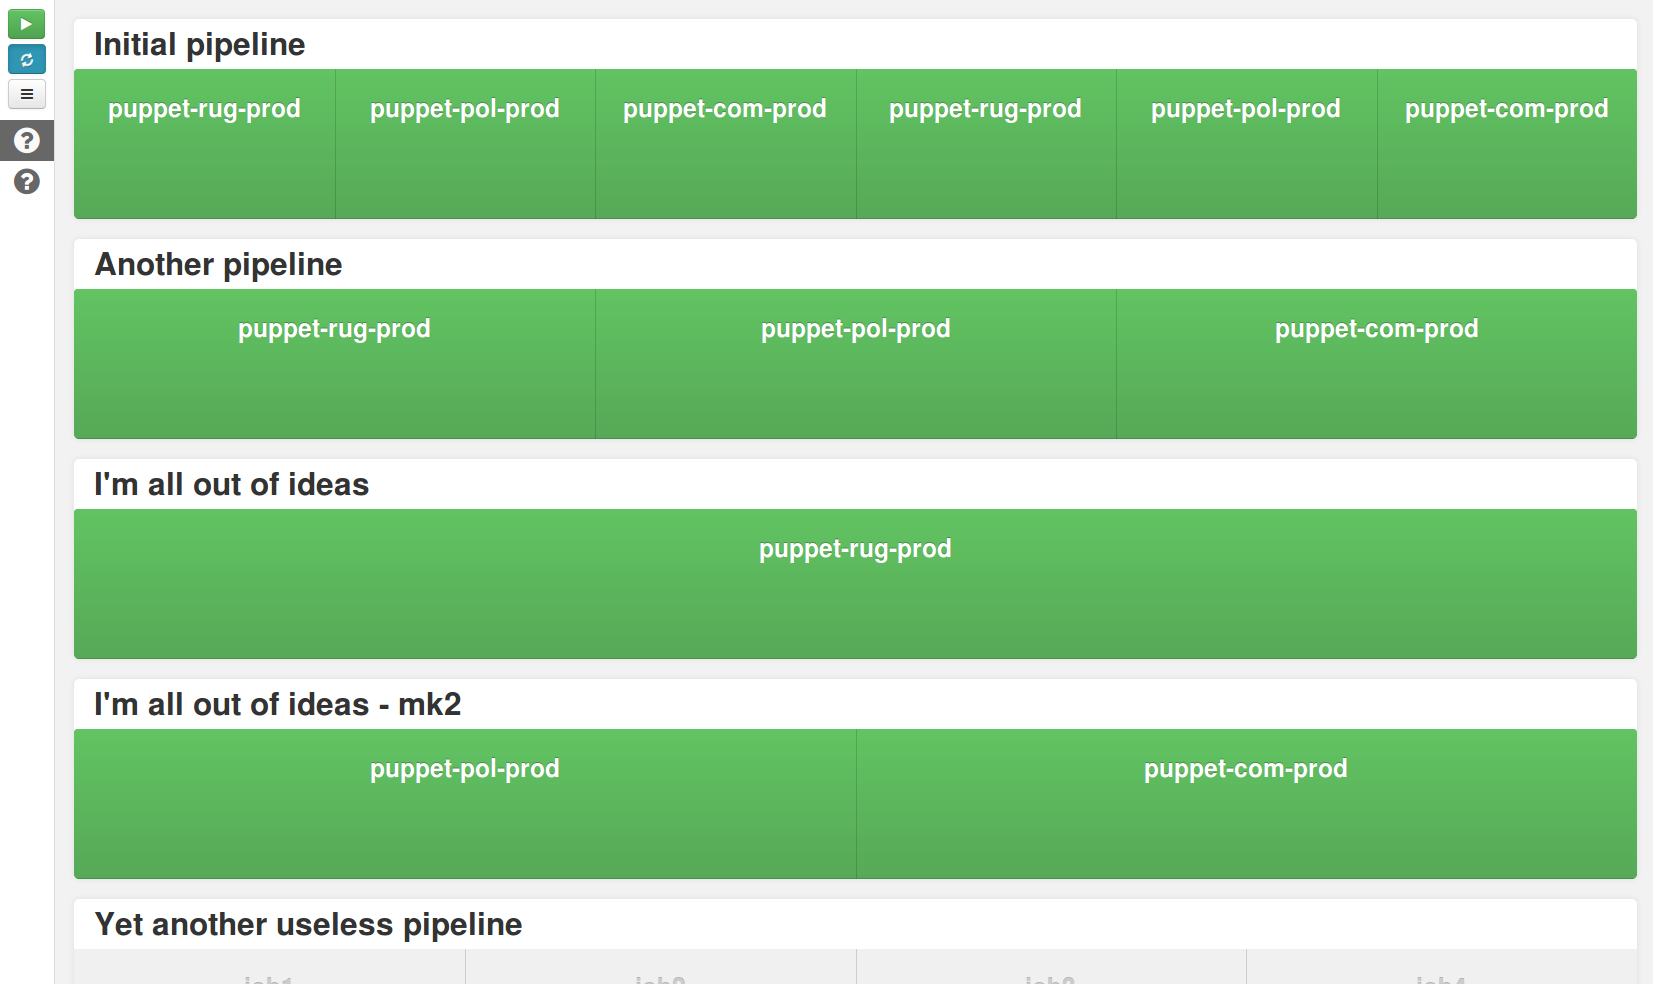
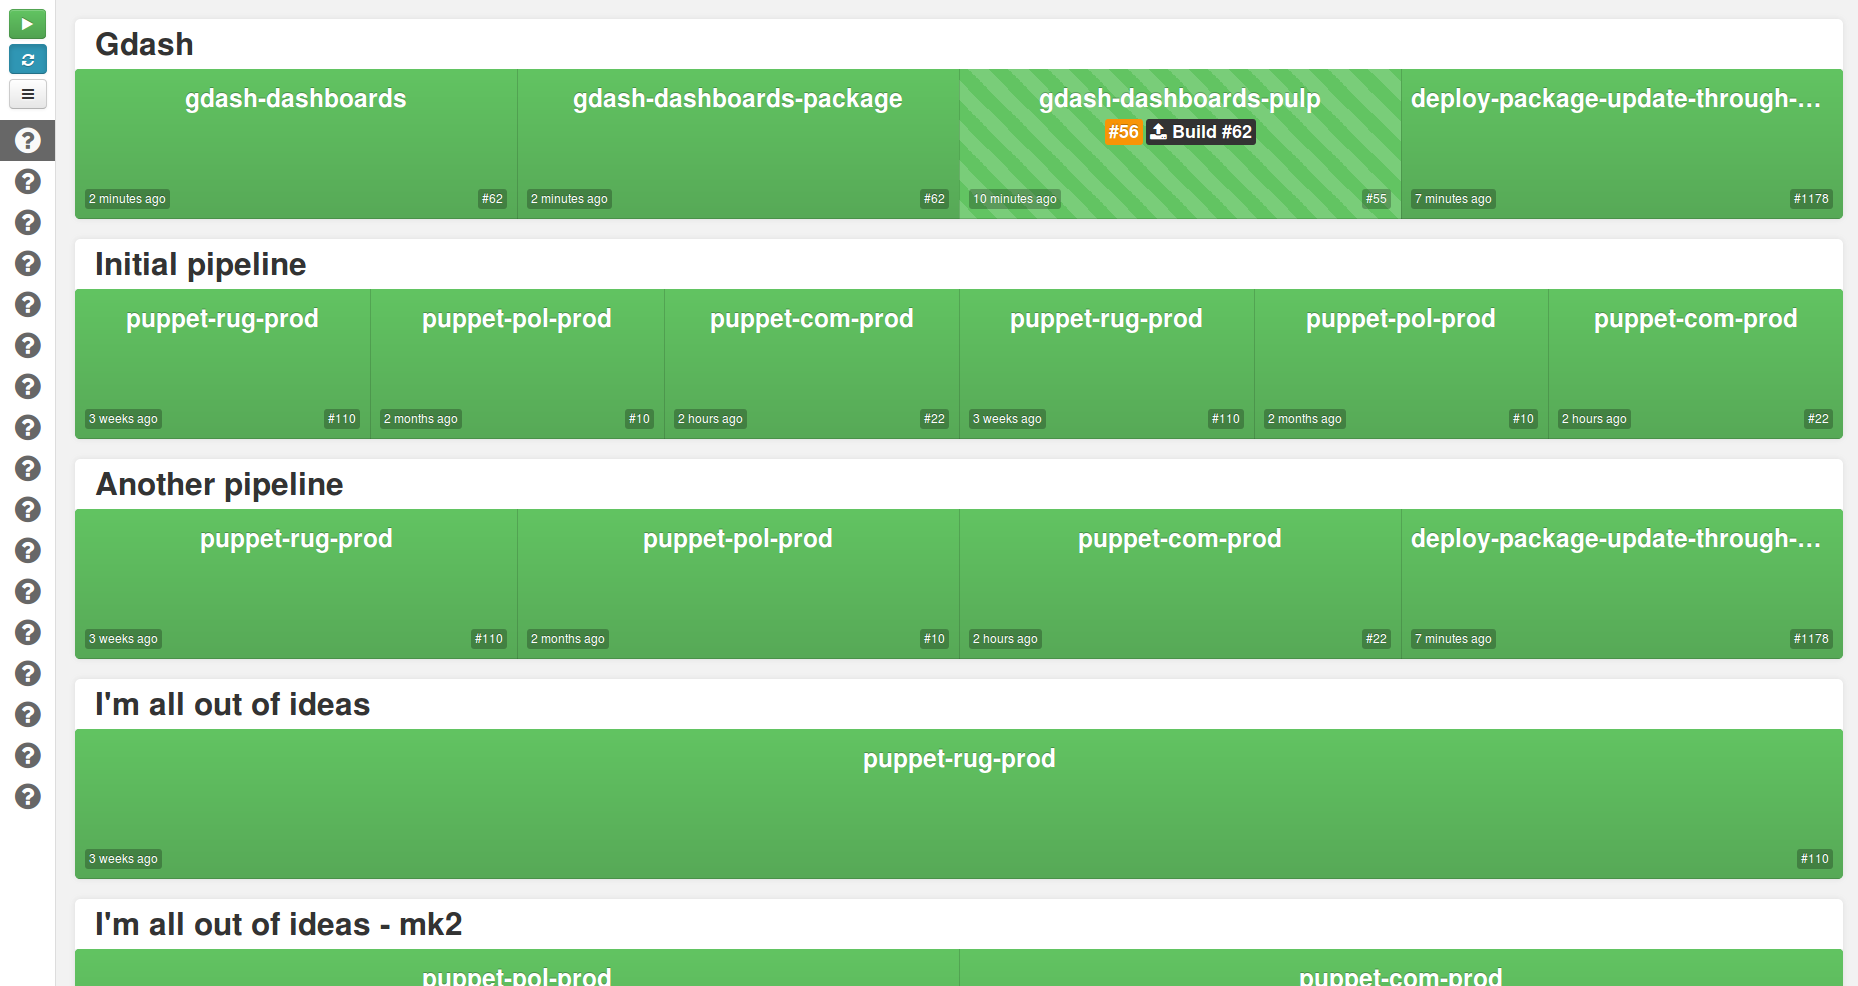
Add support for build triggers, allowing you to re-use the same job and differentiate them based on the job that triggers them. For more information, see Show information about the currently running build, such as cause/instigator and build number Display information about the last successful build,

diff --git a/web/js/main.js b/web/js/main.js
@@ -209,19 +209,21 @@
             			 */
             			$('.job').each(function() {
             				var $this = $(this);
-            				var title = $this.attr('title');
-            				// Only do stuff if there's a title
-            				if(typeof title != 'undefined' && title.length > 0) {
+            				var job = $this.data('job');
+                            var trigger = $this.data('trigger');
+
+            				// Only do stuff if there's a job to do stuff for
+            				if(typeof job != 'undefined' && job.length > 0) {
             					// First, remove all classes that indicate statuses
             					$this.removeClass('animated').removeClass('success').removeClass('error').removeClass('disabled');
-            					
+            					// Set default container to disabled, to be overriden if we can match the job
     							var container = 'disabled';
     							var building = false;
             					
             					// Loop through our received data, and look for an object with a name that matches our title
             					var matched = false;
             					$.each(data, function(key, val) {
-            						if(val.name == title) {
+            						if(val.name == job) {
             							matched = true;
             							
             							building = val.color.indexOf('_anime') != -1;
@@ -248,11 +250,62 @@
             								container = 'neutral';
             								break;
             							}
+
+                                        // Figure out the cause of this build
+                                        var cause = null;
+                                        for(var i = 0; i < val.lastBuild.actions.length; i++) {
+                                            if (val.lastBuild.actions[i].causes) {
+                                                cause = val.lastBuild.actions[i].causes[0];
+                                                break;
+                                            }
+                                        }
+
+                                        // If this job is running, has a trigger and the last(current) build was triggered by another job,
+                                        // then we're only really building if the current build cause is a job that matches data-trigger
+                                        if (building && typeof trigger != 'undefined' && trigger.length > 0) {
+                                            if (cause.upstreamProject && cause.upstreamProject != trigger) {
+                                                building = false;
+                                            }
+                                        }
             							
             							// If we're building, do some magic
             							if(building) {
             								$this.addClass('animated');
             							}
+
+                                        // Display info about the last completed build
+                                        if (val.lastCompletedBuild) {
+                                            // Display the last build number
+                                            $this.find('.job-lastbuild-number').html('#' + val.lastCompletedBuild.number);
+
+                                            // Display the last build time
+                                            $this.find('.job-lastbuild-time').html(BJSInstance.parse(val.lastCompletedBuild.timestamp / 1000));
+                                        }
+
+                                        // Display or hide info about a currently running build
+                                        if (building && val.lastBuild && val.lastBuild.building) {
+                                            // Display some basic info
+                                            $this.find('.job-currentbuild-meta').html('#' + val.lastBuild.number);
+
+                                            // The HTML we'll use to display the cause
+                                            var cause_html = '';
+
+                                            // Figure out the type of the cause (user, SCM or upstream build)
+                                            if (cause.upstreamBuild) {
+                                                cause_html = '<i class="icon-upload-alt"></i> Build #' + cause.upstreamBuild;
+                                            } else if (cause.userName) {
+                                                cause_html = '<i class="icon-user"></i> ' + cause.userName;
+                                            } else {
+                                                cause_html = '<i class="icon-code-fork"></i> SCM/misc';
+                                            }
+
+                                            $this.find('.job-currentbuild-cause').html(cause_html);
+
+                                            $this.find('.job-currentbuild-info').fadeIn();
+
+                                        } else {
+                                            $this.find('.job-currentbuild-info').fadeOut();
+                                        }
             						}
             					});
             					// If no matches were found within our data, this must mean something's broken or configured incorrectly.
@@ -370,6 +423,9 @@
             		switchToGroup($('.group').first().data('group-id'));
             	}
             }
+
+            // Init Beyond.JS
+            BJSInstance = new BeyondJS();
 
             // Init tooltips
             initTooltips();

diff --git a/web/css/layout.css b/web/css/layout.css
@@ -73,7 +73,7 @@ a {
 	top: 0;
 	left: 0;
 	right: 0;
-  padding: 20px;
+  padding: 20px 20px 0;
 }
 
 /** -- CONTENT GROUPS */
@@ -100,14 +100,41 @@ a {
 .jobs {
 	height: 150px;
 }
-.job {
+.job.bar {
 	overflow: hidden;
+  /*text-align: left;*/
+  padding: 10px;
+  position: relative;
 }
-.job.animated {
-	background-repeat: repeat!important;
+.job-name,
+.job-currentbuild-info {
+  margin: 0;
 }
-.job-header {
-	margin: 20px;
+.job-lastbuild-info {
+  position: absolute;
+  bottom: 10px;
+  right: 10px;
+  left: 10px;
+}
+.job-lastbuild-time {
+  float: left;
+}
+.job-lastbuild-number {
+  float: right;
+}
+.job-currentbuild-info {
+  display: none;
+}
+.job-currentbuild-info > span {
+  font-size: 1.5em;
+  line-height: 1.2em;
+}
+
+.tag {
+  display: inline-block;
+  background-color: rgba(0,0,0,0.25);
+  padding: 0 4px;
+  border-radius: 3px;
 }
 
 /* ANIMATED ITEM JOBS */
@@ -128,6 +155,8 @@ a {
 	  -moz-background-size: 40px 40px;
 	  -o-background-size: 40px 40px;
 	  background-size: 40px 40px;
+
+    background-repeat: repeat!important;
 }
 .job.animated.bar-danger {
   background-color: #ee5f5b;
@@ -196,89 +225,29 @@ a {
     margin-left: 55px;
 }
 
-/** TEXT EFFECTS (?) */
 
-.blink {
-    -webkit-animation: blink 2s linear infinite;
-    -moz-animation: blink 2s linear infinite;
-    -ms-animation: blink 2s linear infinite;
-    -o-animation: blink 2s linear infinite;
-    animation: blink 2s linear infinite;
+/** TEXT TRUNCATION */
+.item-header,
+.job-name {
+  white-space: nowrap;
+  overflow: hidden;
+  text-overflow: ellipsis;
 }
 
-@-webkit-keyframes blink {
-    0% { opacity: 1; }
-    10% { opacity: 0.8; }
-    20% { opacity: 0.6; }
-    30% { opacity: 0.4; }
-    40% { opacity: 0.2; }
-    50% { opacity: 0; }
-    60% { opacity: 0.2; }
-    70% { opacity: 0.4; }
-    80% { opacity: 0.6; }
-    90% { opacity: 0.8; }
-    100% { opacity: 1; }
-}
-
-@-moz-keyframes blink {
-    0% { opacity: 1; }
-    10% { opacity: 0.8; }
-    20% { opacity: 0.6; }
-    30% { opacity: 0.4; }
-    40% { opacity: 0.2; }
-    50% { opacity: 0; }
-    60% { opacity: 0.2; }
-    70% { opacity: 0.4; }
-    80% { opacity: 0.6; }
-    90% { opacity: 0.8; }
-    100% { opacity: 1; }
-}
-
-@-ms-keyframes blink {
-    0% { opacity: 1; }
-    10% { opacity: 0.8; }
-    20% { opacity: 0.6; }
-    30% { opacity: 0.4; }
-    40% { opacity: 0.2; }
-    50% { opacity: 0; }
-    60% { opacity: 0.2; }
-    70% { opacity: 0.4; }
-    80% { opacity: 0.6; }
-    90% { opacity: 0.8; }
-    100% { opacity: 1; }
-}
-
-@-o-keyframes blink {
-    0% { opacity: 1; }
-    10% { opacity: 0.8; }
-    20% { opacity: 0.6; }
-    30% { opacity: 0.4; }
-    40% { opacity: 0.2; }
-    50% { opacity: 0; }
-    60% { opacity: 0.2; }
-    70% { opacity: 0.4; }
-    80% { opacity: 0.6; }
-    90% { opacity: 0.8; }
-    100% { opacity: 1; }
-}
-
-@keyframes blink {
-    0% { opacity: 1; }
-    10% { opacity: 0.8; }
-    20% { opacity: 0.6; }
-    30% { opacity: 0.4; }
-    40% { opacity: 0.2; }
-    50% { opacity: 0; }
-    60% { opacity: 0.2; }
-    70% { opacity: 0.4; }
-    80% { opacity: 0.6; }
-    90% { opacity: 0.8; }
-    100% { opacity: 1; }
-}
-
-/** RESPONSIVE LAYOUTS */
+/** RESPONSIVE LAYOUT */
 @media (max-width: 979px) {
-   /** --SIDEBAR SHRINKING  & CONTENT EXPANDING */
+  /* Remove body padding on small screens */
+  body {
+    padding: 0;
+  }
+
+  /* Hide last build and current build info */
+  .job-lastbuild-info,
+  .job-currentbuild-info {
+    display: none;
+  }
+
+  /** --SIDEBAR SHRINKING  & CONTENT EXPANDING */
 	.sidebar {
 	    width: 55px;
 	    max-width: 55px;

diff --git a/web/assets/beyond.js/js/beyond.min.js b/web/assets/beyond.js/js/beyond.min.js
@@ -1,0 +1,3 @@
+var BeyondJS=function(f){this.cfg={future:!1,now:null,locale:{s:"second",S:"seconds",m:"minute",M:"minutes",h:"hour",H:"hours",d:"day",D:"days",w:"week",W:"weeks",mo:"month",MO:"months",y:"year",Y:"years","default":"just now",past:"ago",future:"from now"}};(function(d,a){if(a)for(arg in a)d.cfg[arg]=a[arg];d.parse=function(e){return g(d,e)};d.parseUnix=function(e){var b=d.cfg.now||Math.round((new Date).getTime()/1E3);e-=b;if(0<e&&!d.cfg.future)e=null;else{var b=Math.abs(e),c=0,a="";31536E3<=b?(c=
+Math.floor(b/31536E3),a=1<c?"Y":"y"):2678400<=b?(c=Math.floor(b/2678400),a=1<c?"MO":"mo"):604800<=b?(c=Math.floor(b/604800),a=1<c?"W":"w"):86400<=b?(c=Math.floor(b/86400),a=1<c?"D":"d"):3600<=b?(c=Math.floor(b/3600),a=1<c?"H":"h"):60<=b?(c=Math.floor(b/60),a=1<c?"M":"m"):1<=b&&(c=Math.floor(b),a=1<c?"S":"s");e=0==c?d.cfg.locale["default"]:c+" "+d.cfg.locale[a]+" "+d.cfg.locale[0>e?"past":"future"]}return e}})(this,f);var g=function(d,a){if(null==a||""==a)return null;if(!isNaN(a-0))return d.parseUnix(a);
+try{var e=new Date(a)}catch(b){return null}return d.parseUnix(Math.round(e.getTime()/1E3))}};

diff --git a/lib/KalmanOlah/Jenkins/ApiProxy.php b/lib/KalmanOlah/Jenkins/ApiProxy.php
@@ -22,6 +22,9 @@ class ApiProxy {
         foreach ($this->app['config']['monitoring']['groups'] as $group) {
             foreach ($group['items'] as $item) {
                 foreach ($item['jobs'] as $job) {
+                    if (is_array($job)) {
+                        $job = $job['job'];
+                    }
                     if (!in_array($job, $this->monitored_jobs)) {
                         $this->monitored_jobs[] = $job;
                     }
@@ -74,7 +77,7 @@ class ApiProxy {
     
     public function getJobs()
     {
-        $jobs = $this->getJenkinsResponse('api/json');
+        $jobs = $this->getJenkinsResponse('api/json/?tree=jobs[name,url,color,lastCompletedBuild[number,timestamp],lastBuild[actions[causes[*]],number,building]]');
         $jobs = json_decode($jobs);
         $jobs = $jobs->jobs;
         

diff --git a/README.md b/README.md
@@ -5,6 +5,18 @@ This is a simple build monitor for Jenkins. When set up, it kind of looks like t
 
 ![Ganbatte](https://raw.github.com/kalmanolah/ganbatte/master/screenshot.png)
 
+Features:
+
+- Supports build triggers, differentiating jobs based on the job triggering them
+- Allows you to add one or multiple pages of pipeline items, with the ability to automatically rotate between pages (Can be toggled)
+- Allows you to add one or multiple pipeline items per page, each with one or multiple monitored Jenkins CI jobs
+- A fully responsive layout based on Twitter Bootstrap
+- Automatic repositioning of pipeline items with only disabled jobs to the bottom and pipeline items with failing jobs to the top, so you can immediately pick up on a failing build
+- Animations and additional information for builds in progress
+- Automatic refreshing of data at a configurable interval (Can be toggled)
+- Reuse jobs on multiple pages and in multiple pipeline items without causing unnecessary strain on your Jenkins CI server
+- It just looks nice
+
 The original version of Ganbatte was a standalone [Symfony](http://symfony.com/) project, but has been discontinued in favor of using the [Silex Microframework](http://silex.sensiolabs.org/).
 
 Documentation
@@ -33,3 +45,19 @@ Credits
 -------
 
 A bunch of third party resources were used in the creation of this application. All credit goes to their original creators.
+
+Changelog
+---------
+
+See [CHANGELOG](CHANGELOG) for a more up-to-date version of the changelog.
+
+v0.2
+
+- Add support for build triggers, allowing you to re-use the same job and differentiate them based on the job that triggers them. For more information, see `config/example.config.yml`
+- Show information about the currently running build, such as cause/instigator and build number
+- Display information about the last successful build, such as build time and build number
+- Start keeping a changelog ¯\\_(ツ)_/¯
+
+v0.1
+
+- Port old version of Ganbatte, use the Silex microframework instead of the full Symfony2 framework
